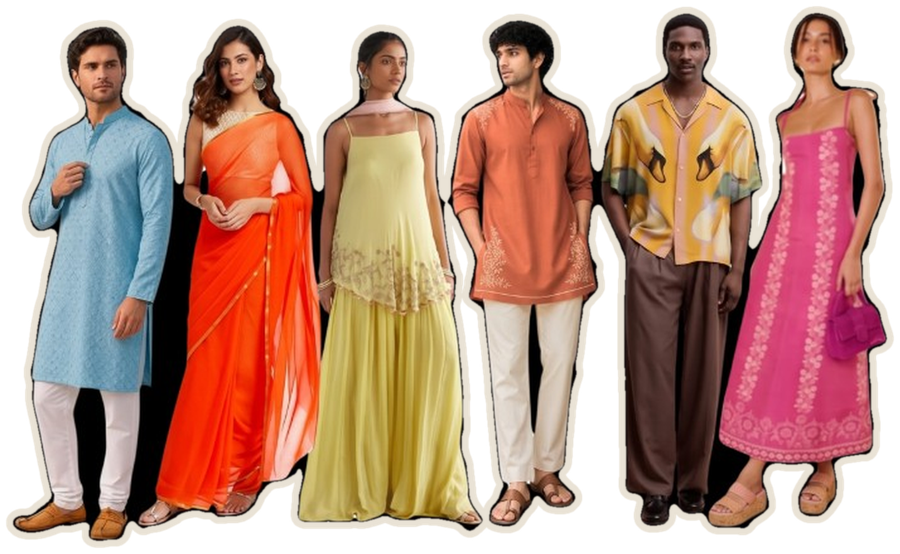
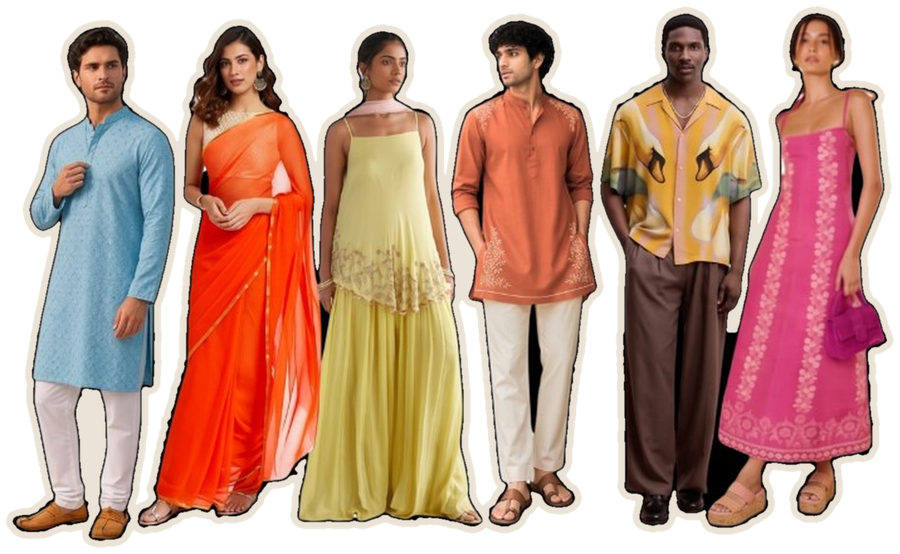
Tighter Ganesh Puja & Haldi outfit cutout, no dark halo

diff --git a/index.html b/index.html
@@ -982,7 +982,7 @@ picture{margin-block:clamp(52px,8vw,104px);}
 </article>
 <article class="leg" data-tab="Ganesh Puja &amp; Haldi">
 <div class="leg-body">
-<picture><source srcset="img/look-haldi-sm.webp?v=3 900w, img/look-haldi.webp?v=3 1420w" sizes="(max-width:760px) 100vw, 44rem" type="image/webp"><img src="img/look-haldi.png?v=3" width="900" height="554" decoding="async" alt="Six guests in playful Indo-western outfits in bright, solid colors."></picture>
+<picture><source srcset="img/look-haldi-sm.webp?v=4 900w, img/look-haldi.webp?v=4 1420w" sizes="(max-width:760px) 100vw, 44rem" type="image/webp"><img src="img/look-haldi.png?v=4" width="900" height="554" decoding="async" alt="Six guests in playful Indo-western outfits in bright, solid colors."></picture>
 <ul class="swatches" aria-label="Suggested colors"><li style="--c:#D94678"></li><li style="--c:#F46860"></li><li style="--c:#F57E59"></li><li style="--c:#DFAA50"></li><li style="--c:#D8D086"></li><li style="--c:#B4EF90"></li><li style="--c:#75D9DF"></li><li style="--c:#4981FD"></li></ul>
 <p class="when">Semi-Formal Western or Indian</p>
 <ul class="gems"><li>Playful Indo-western outfits.</li><li>Bright, solid colors encouraged. Dress for sunshine!</li><li>Wear shoes you feel comfy walking in. Avoid stiletto heels.</li></ul>
